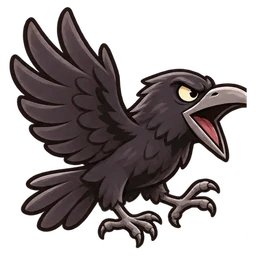
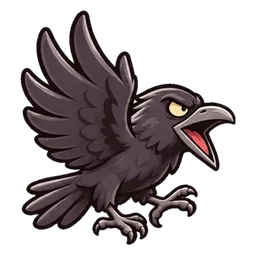
Icona del Corvo rifatta (becco intero); la scheda del market resta sopra il tutorial
Claude-Session: https://claude.ai/code/session_01HfaWZ85fbzKyRqfxnb746i

diff --git a/index.html b/index.html
@@ -59,7 +59,9 @@ button:focus-visible,.bu:focus-visible,select:focus-visible{outline:3px solid va
 .mmbox{display:flex;gap:10px;align-items:center;justify-content:space-between;background:var(--chip);border-radius:12px;padding:8px 12px}
 .rank li b .linkbtn{margin-left:6px}
 .dot{display:inline-block;width:9px;height:9px;border-radius:50%;background:#9aa;margin-right:6px;vertical-align:1px}.dot.on{background:#3fae3f}
-.coach{position:fixed;z-index:60;width:min(340px,calc(100vw - 16px));background:var(--panel);border:3px solid #f2c230;border-radius:16px;padding:12px 14px;box-shadow:0 12px 30px rgba(0,0,0,.35);display:grid;gap:8px}
+.coach{position:fixed;z-index:60;}
+#cardModal{z-index:70}
+.coach{width:min(340px,calc(100vw - 16px));background:var(--panel);border:3px solid #f2c230;border-radius:16px;padding:12px 14px;box-shadow:0 12px 30px rgba(0,0,0,.35);display:grid;gap:8px}
 .coach p{margin:0;line-height:1.45}.coachtop{display:flex;justify-content:space-between;align-items:center}
 .coach-hl{outline:4px solid #f2c230!important;outline-offset:3px;border-radius:12px;position:relative;z-index:5;animation:coachpulse 1.2s ease-in-out infinite}
 @keyframes coachpulse{50%{outline-color:#ffe680}}

diff --git a/sw.js b/sw.js
@@ -2,7 +2,7 @@
 // Pagina e script: prima la rete (così gli aggiornamenti arrivano subito), poi la copia salvata.
 // Immagini: prima la copia salvata. Quando cambi immagini già esistenti, aumenta VERSION.
 // tools/test-pwa.js controlla che tutte le icone siano in PRECACHE.
-const VERSION='ff-v2';
+const VERSION='ff-v3';
 const PRECACHE=[
  "./",
  "index.html",
